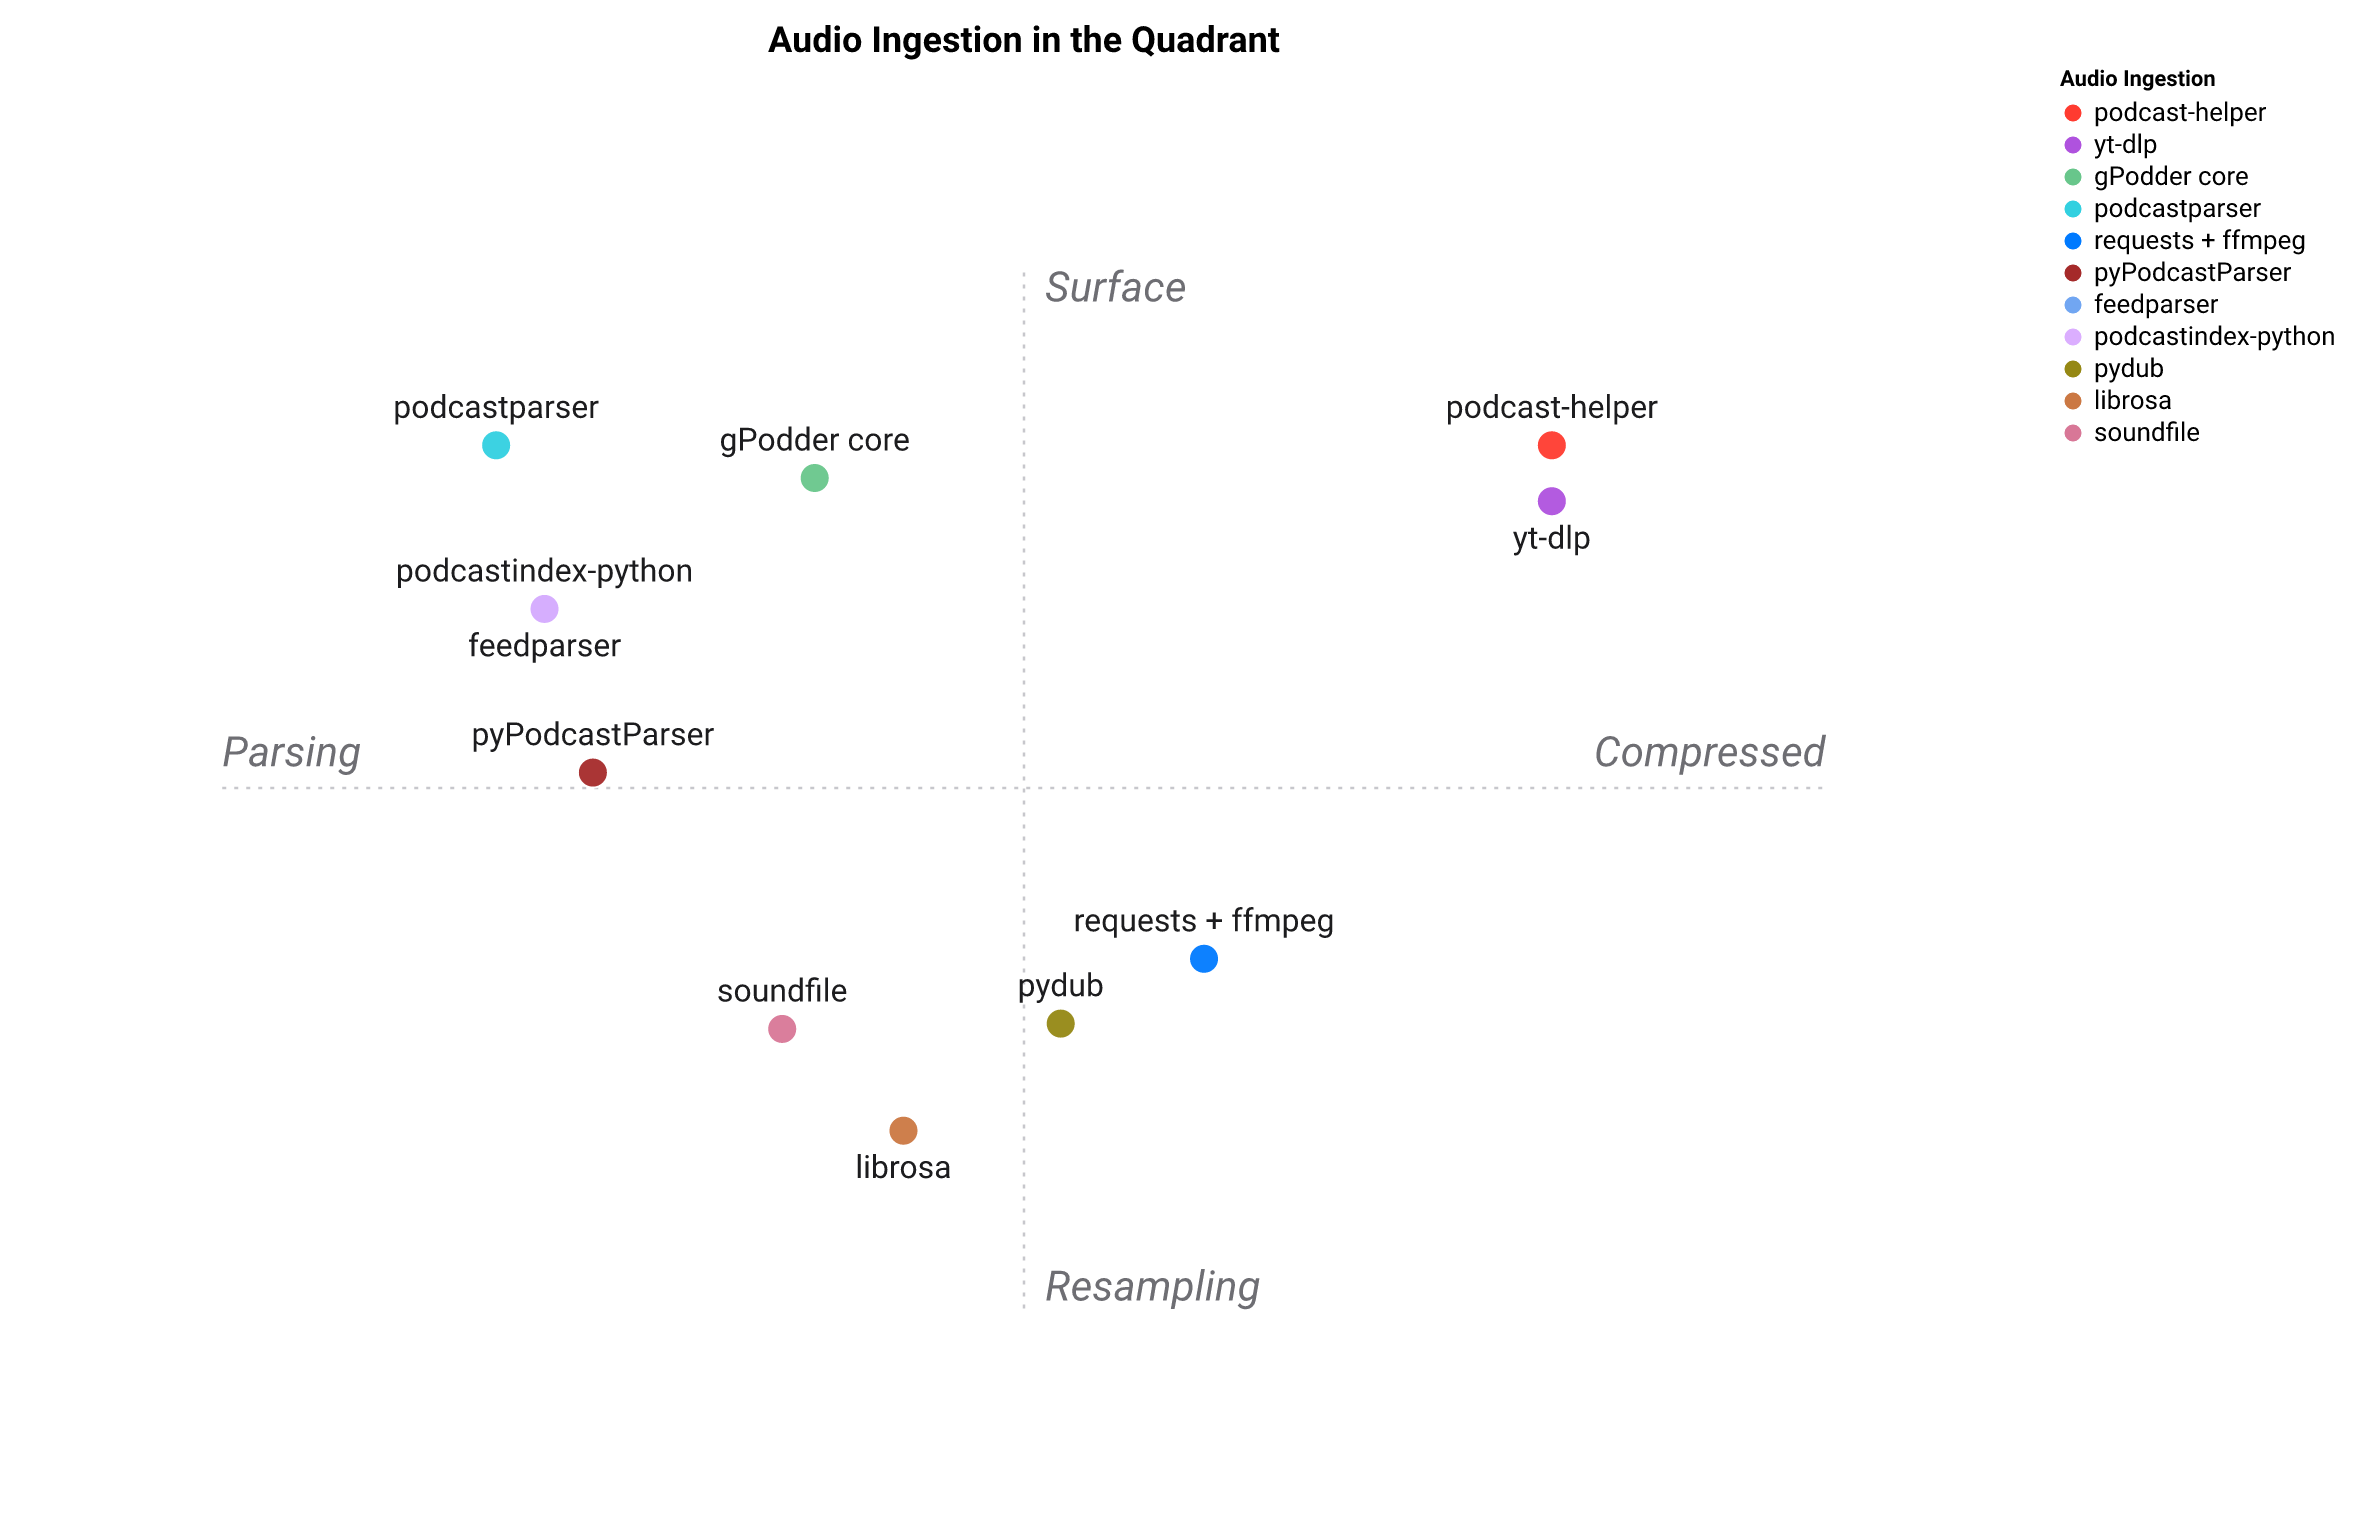
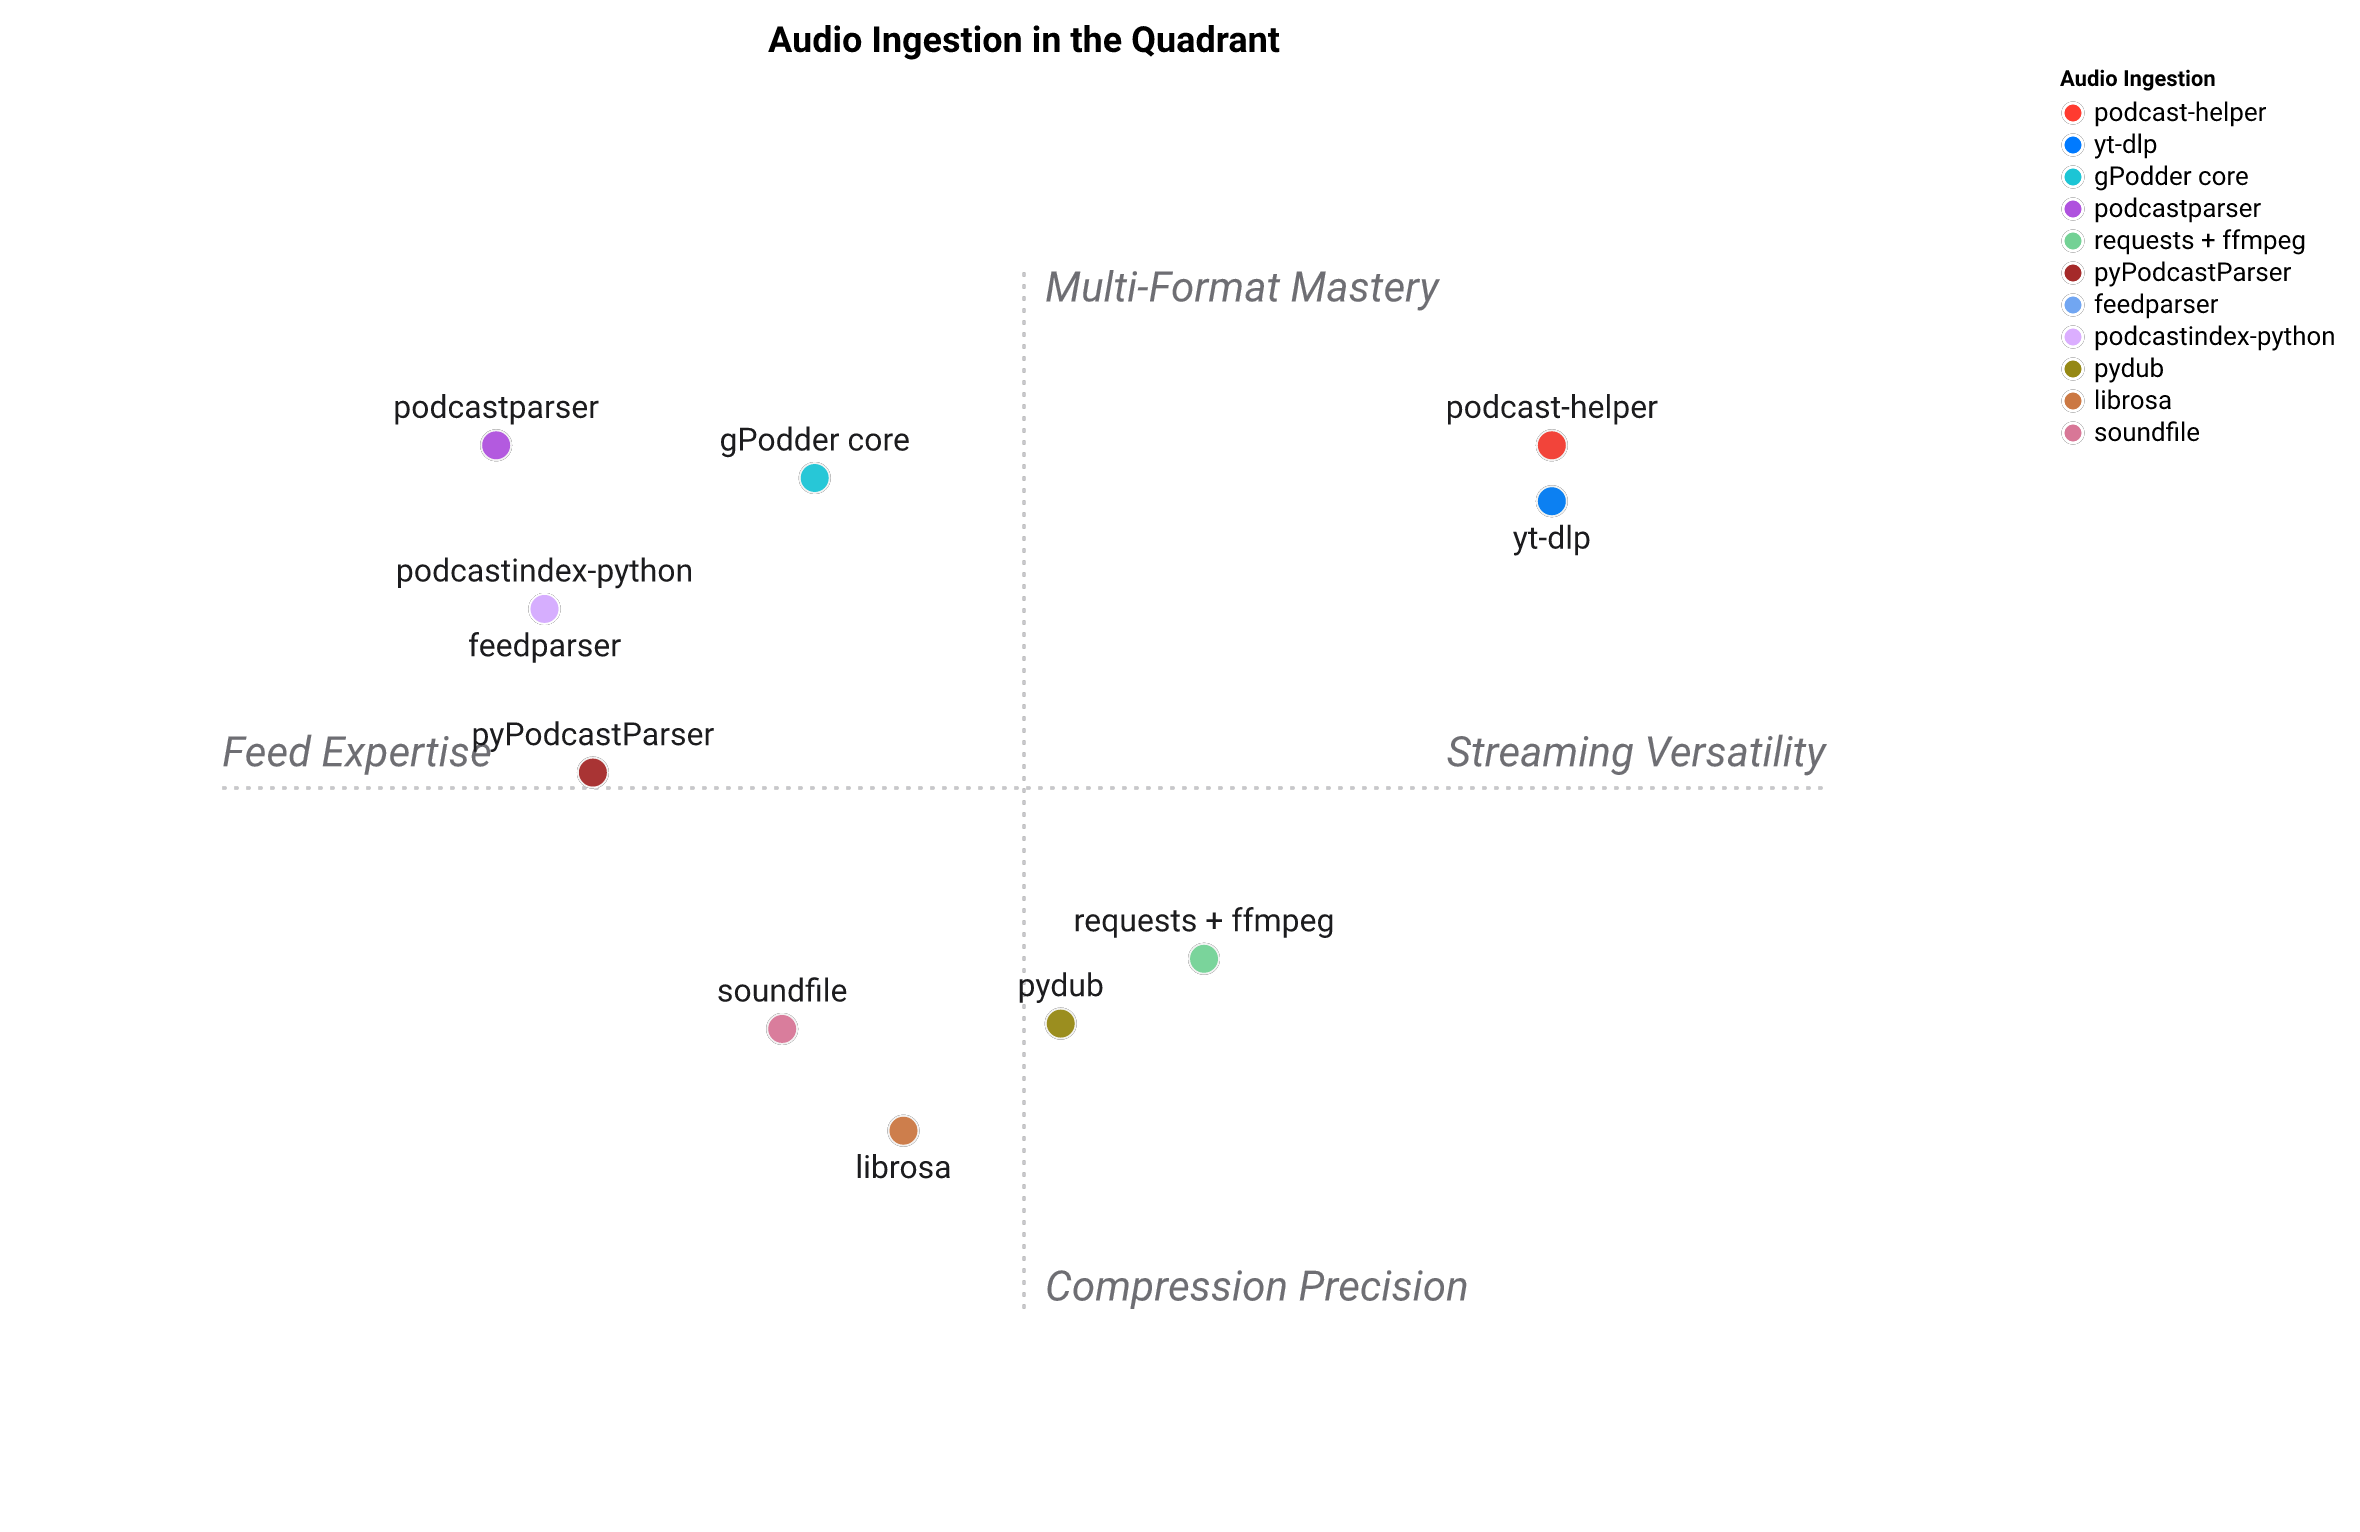
Landscape: CSV as source of truth; regenerate table/figure/commentary
- assets/landscape.csv & assets/paysage.csv are now the committed source of
  truth (integer ratings + domain label in the first cell). The star table, the
  positioning figure and the commentary in LANDSCAPE.md / PAYSAGE.md are
  regenerated from them by scripts/gen_landscape.py (standingpoint, LLM axis
  names), inside managed <!-- TABLE --> / <!-- FIGURE --> marker regions.
- Axis names use the LLM plain-word poles.

diff --git a/LANDSCAPE.md b/LANDSCAPE.md
@@ -14,6 +14,7 @@ penalised — the score just reflects fit to *this* niche.
 
 ## At a glance
 
+<!-- TABLE:START -->
 | Audio Ingestion | Universal URL-in | RSS / Atom parsing | yt-dlp resolution | Live-stream (HLS) | Correct resampling | PCM streaming | Compressed archive | Multi-surface |
 | --- | :---: | :---: | :---: | :---: | :---: | :---: | :---: | :---: |
 | **podcast-helper** | ⭐⭐⭐⭐⭐ | ⭐⭐⭐⭐⭐ | ⭐⭐⭐⭐⭐ | ⭐⭐⭐⭐ | ⭐⭐⭐⭐⭐ | ⭐⭐⭐⭐⭐ | ⭐⭐⭐⭐ | ⭐⭐⭐⭐⭐ |
@@ -27,14 +28,17 @@ penalised — the score just reflects fit to *this* niche.
 | librosa | ⭐⭐ | ⭐ | ⭐ | ⭐ | ⭐⭐⭐⭐ | ⭐ | ⭐ | ⭐ |
 | soundfile | ⭐ | ⭐ | ⭐ | ⭐ | ⭐ | ⭐⭐ | ⭐⭐ | ⭐ |
 | requests + ffmpeg | ⭐⭐ | ⭐ | ⭐ | ⭐⭐ | ⭐⭐⭐⭐⭐ | ⭐⭐⭐ | ⭐⭐⭐ | ⭐ |
+<!-- TABLE:END -->
 
 ## Positioning map
 
+<!-- FIGURE:START -->
 2D representation of the table above.
 
 ![Positioning map](https://raw.githubusercontent.com/warith-harchaoui/podcast-helper/main/assets/landscape.png)
 
-The map is a 2-D summary of the eight criteria, so read it as a shape, not a scoreboard. `podcast-helper` is at the top-right corner. The axes read **Horizontal — Parsing ↔ Compressed** and **Vertical — Resampling ↔ Surface**.
+The map is a 2-D summary of the eight criteria, so read it as a shape, not a scoreboard. `podcast-helper` is at the top-right corner. The axes read **Horizontal — Feed Expertise ↔ Streaming Versatility** and **Vertical — Compression Precision ↔ Multi-Format Mastery**.
+<!-- FIGURE:END -->
 
 ## Positioning
 

diff --git a/PAYSAGE.md b/PAYSAGE.md
@@ -15,6 +15,7 @@ pénalisée — la note reflète seulement l'adéquation à *ce* créneau.
 
 ## En un coup d'œil
 
+<!-- TABLE:START -->
 | Ingestion audio | URL universelle en entrée | Analyse RSS / Atom | Résolution yt-dlp | Flux en direct (HLS) | Rééchantillonnage correct | Streaming PCM | Archive compressée | Multi-surface |
 | --- | :---: | :---: | :---: | :---: | :---: | :---: | :---: | :---: |
 | **podcast-helper** | ⭐⭐⭐⭐⭐ | ⭐⭐⭐⭐⭐ | ⭐⭐⭐⭐⭐ | ⭐⭐⭐⭐ | ⭐⭐⭐⭐⭐ | ⭐⭐⭐⭐⭐ | ⭐⭐⭐⭐ | ⭐⭐⭐⭐⭐ |
@@ -28,14 +29,17 @@ pénalisée — la note reflète seulement l'adéquation à *ce* créneau.
 | librosa | ⭐⭐ | ⭐ | ⭐ | ⭐ | ⭐⭐⭐⭐ | ⭐ | ⭐ | ⭐ |
 | soundfile | ⭐ | ⭐ | ⭐ | ⭐ | ⭐ | ⭐⭐ | ⭐⭐ | ⭐ |
 | requests + ffmpeg | ⭐⭐ | ⭐ | ⭐ | ⭐⭐ | ⭐⭐⭐⭐⭐ | ⭐⭐⭐ | ⭐⭐⭐ | ⭐ |
+<!-- TABLE:END -->
 
 ## Carte de positionnement
 
+<!-- FIGURE:START -->
 Représentation 2D du tableau ci-dessus.
 
 ![Carte de positionnement](https://raw.githubusercontent.com/warith-harchaoui/podcast-helper/main/assets/paysage.png)
 
-La carte est un résumé en 2D des 8 critères : à lire comme une forme, pas comme un classement. « podcast-helper » se situe dans le coin en haut à droite. Les axes se lisent **Horizontal — Analyse ↔ Compress** et **Vertical — Chantillonnage ↔ Surface**.
+La carte est un résumé en 2D des 8 critères : à lire comme une forme, pas comme un classement. « podcast-helper » se situe dans le coin en haut à droite. Les axes se lisent **Horizontal — Efficace ↔ Polyvalent** et **Vertical — Simple ↔ Performant**.
+<!-- FIGURE:END -->
 
 ## Positionnement
 